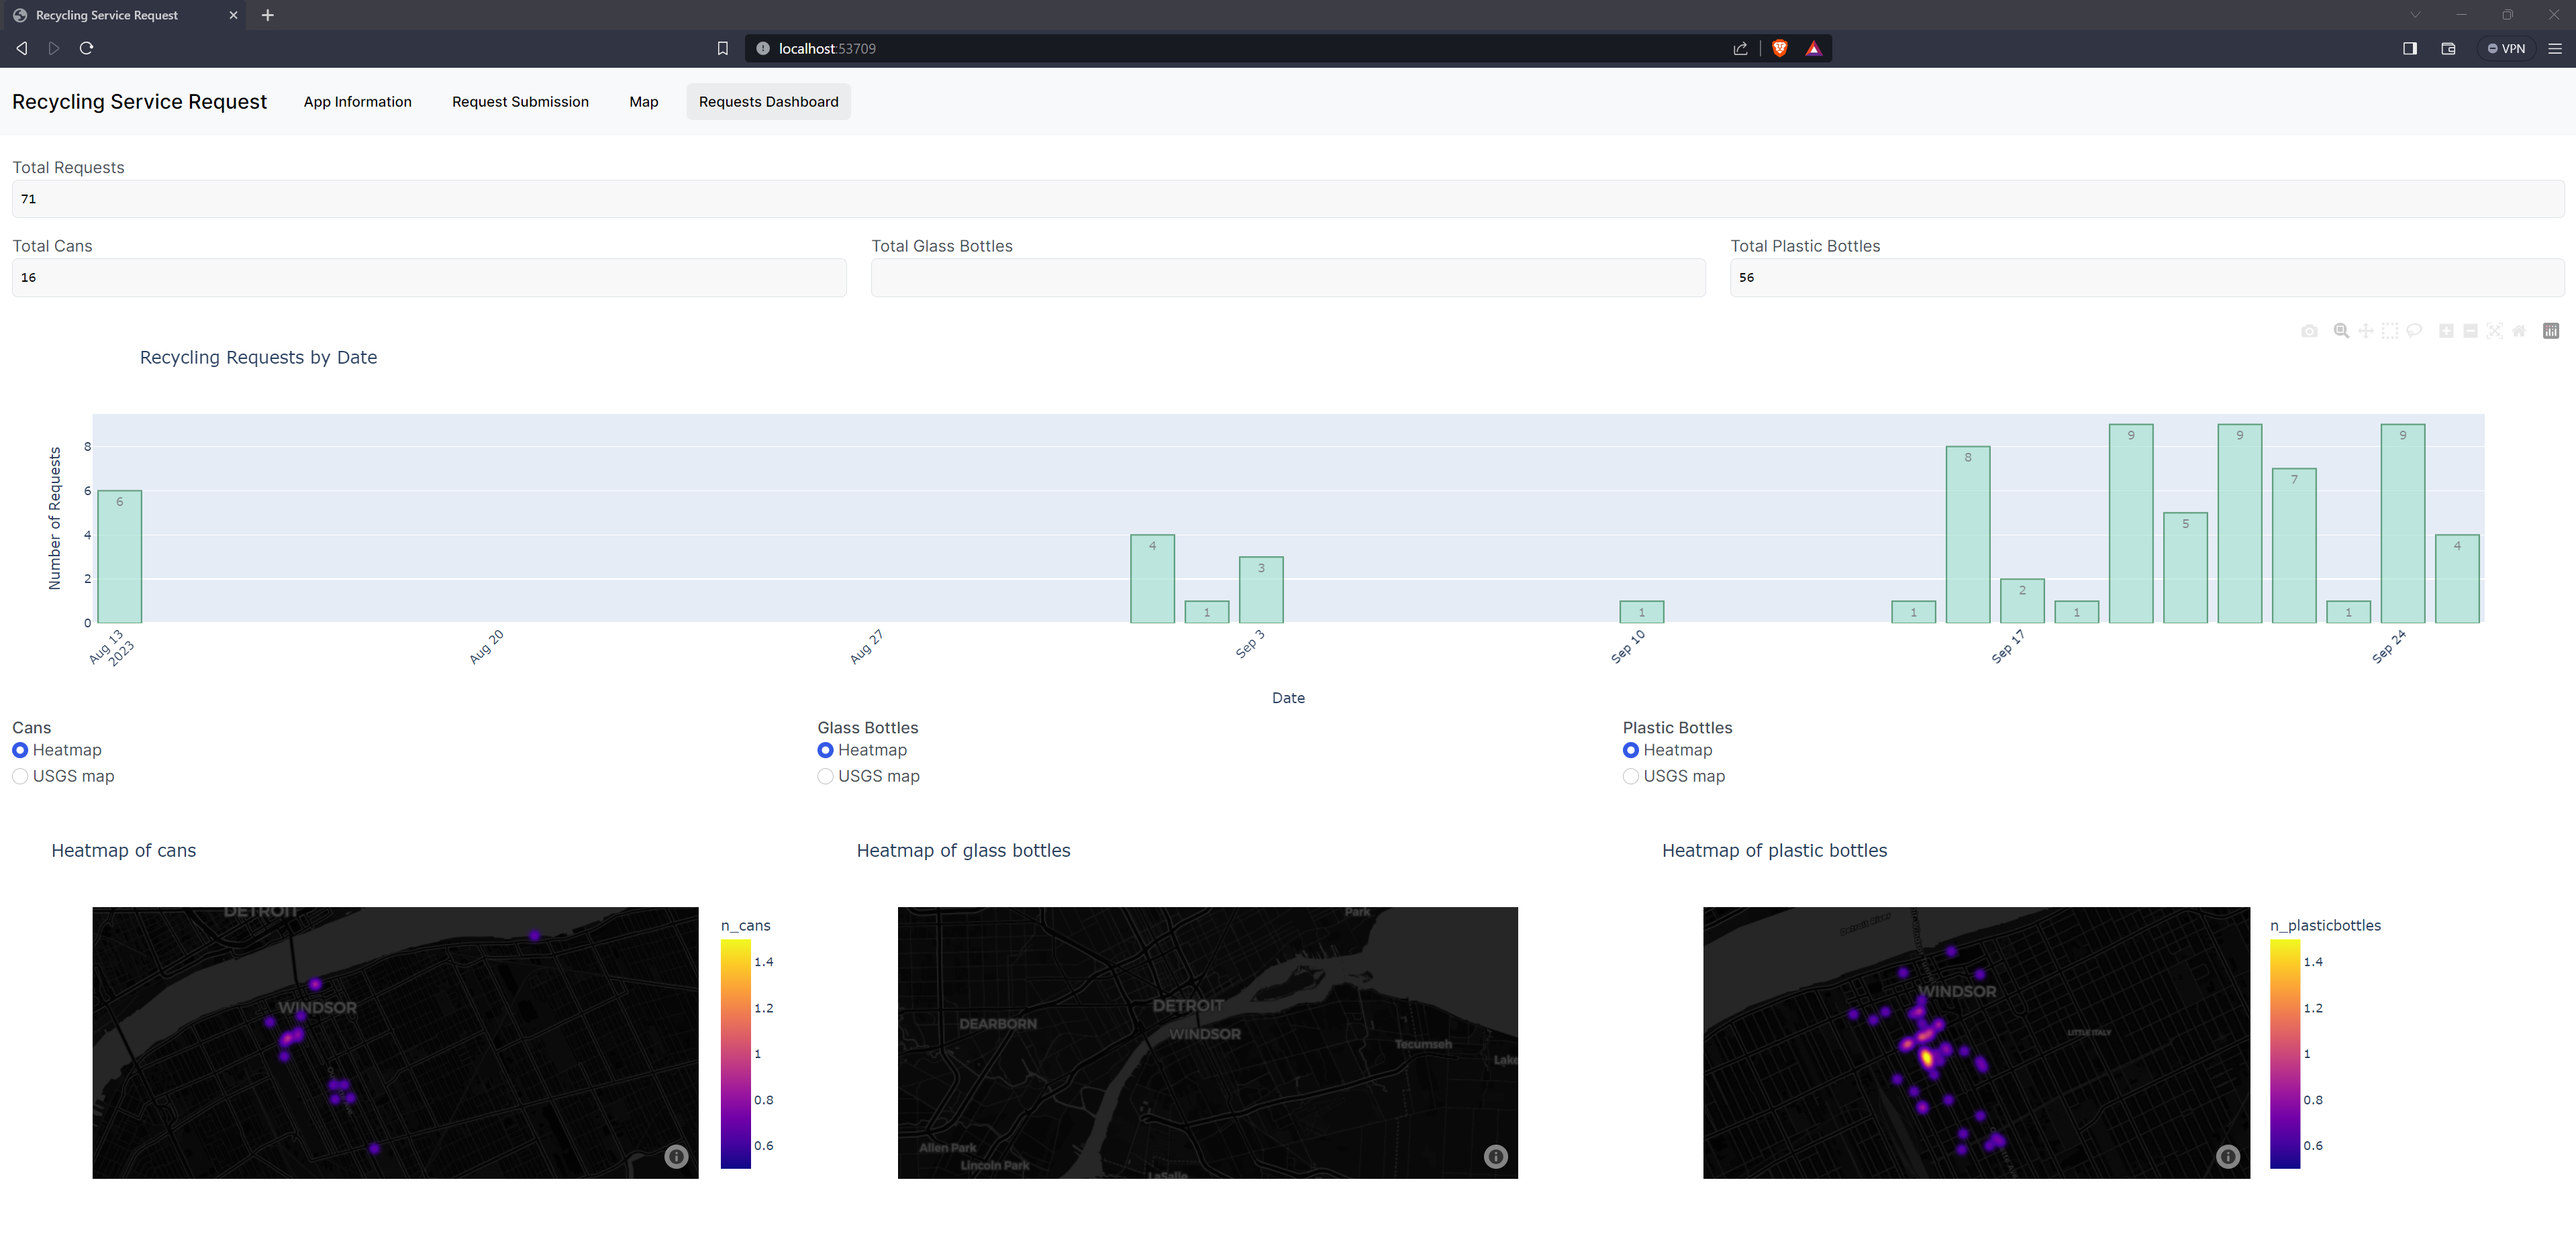
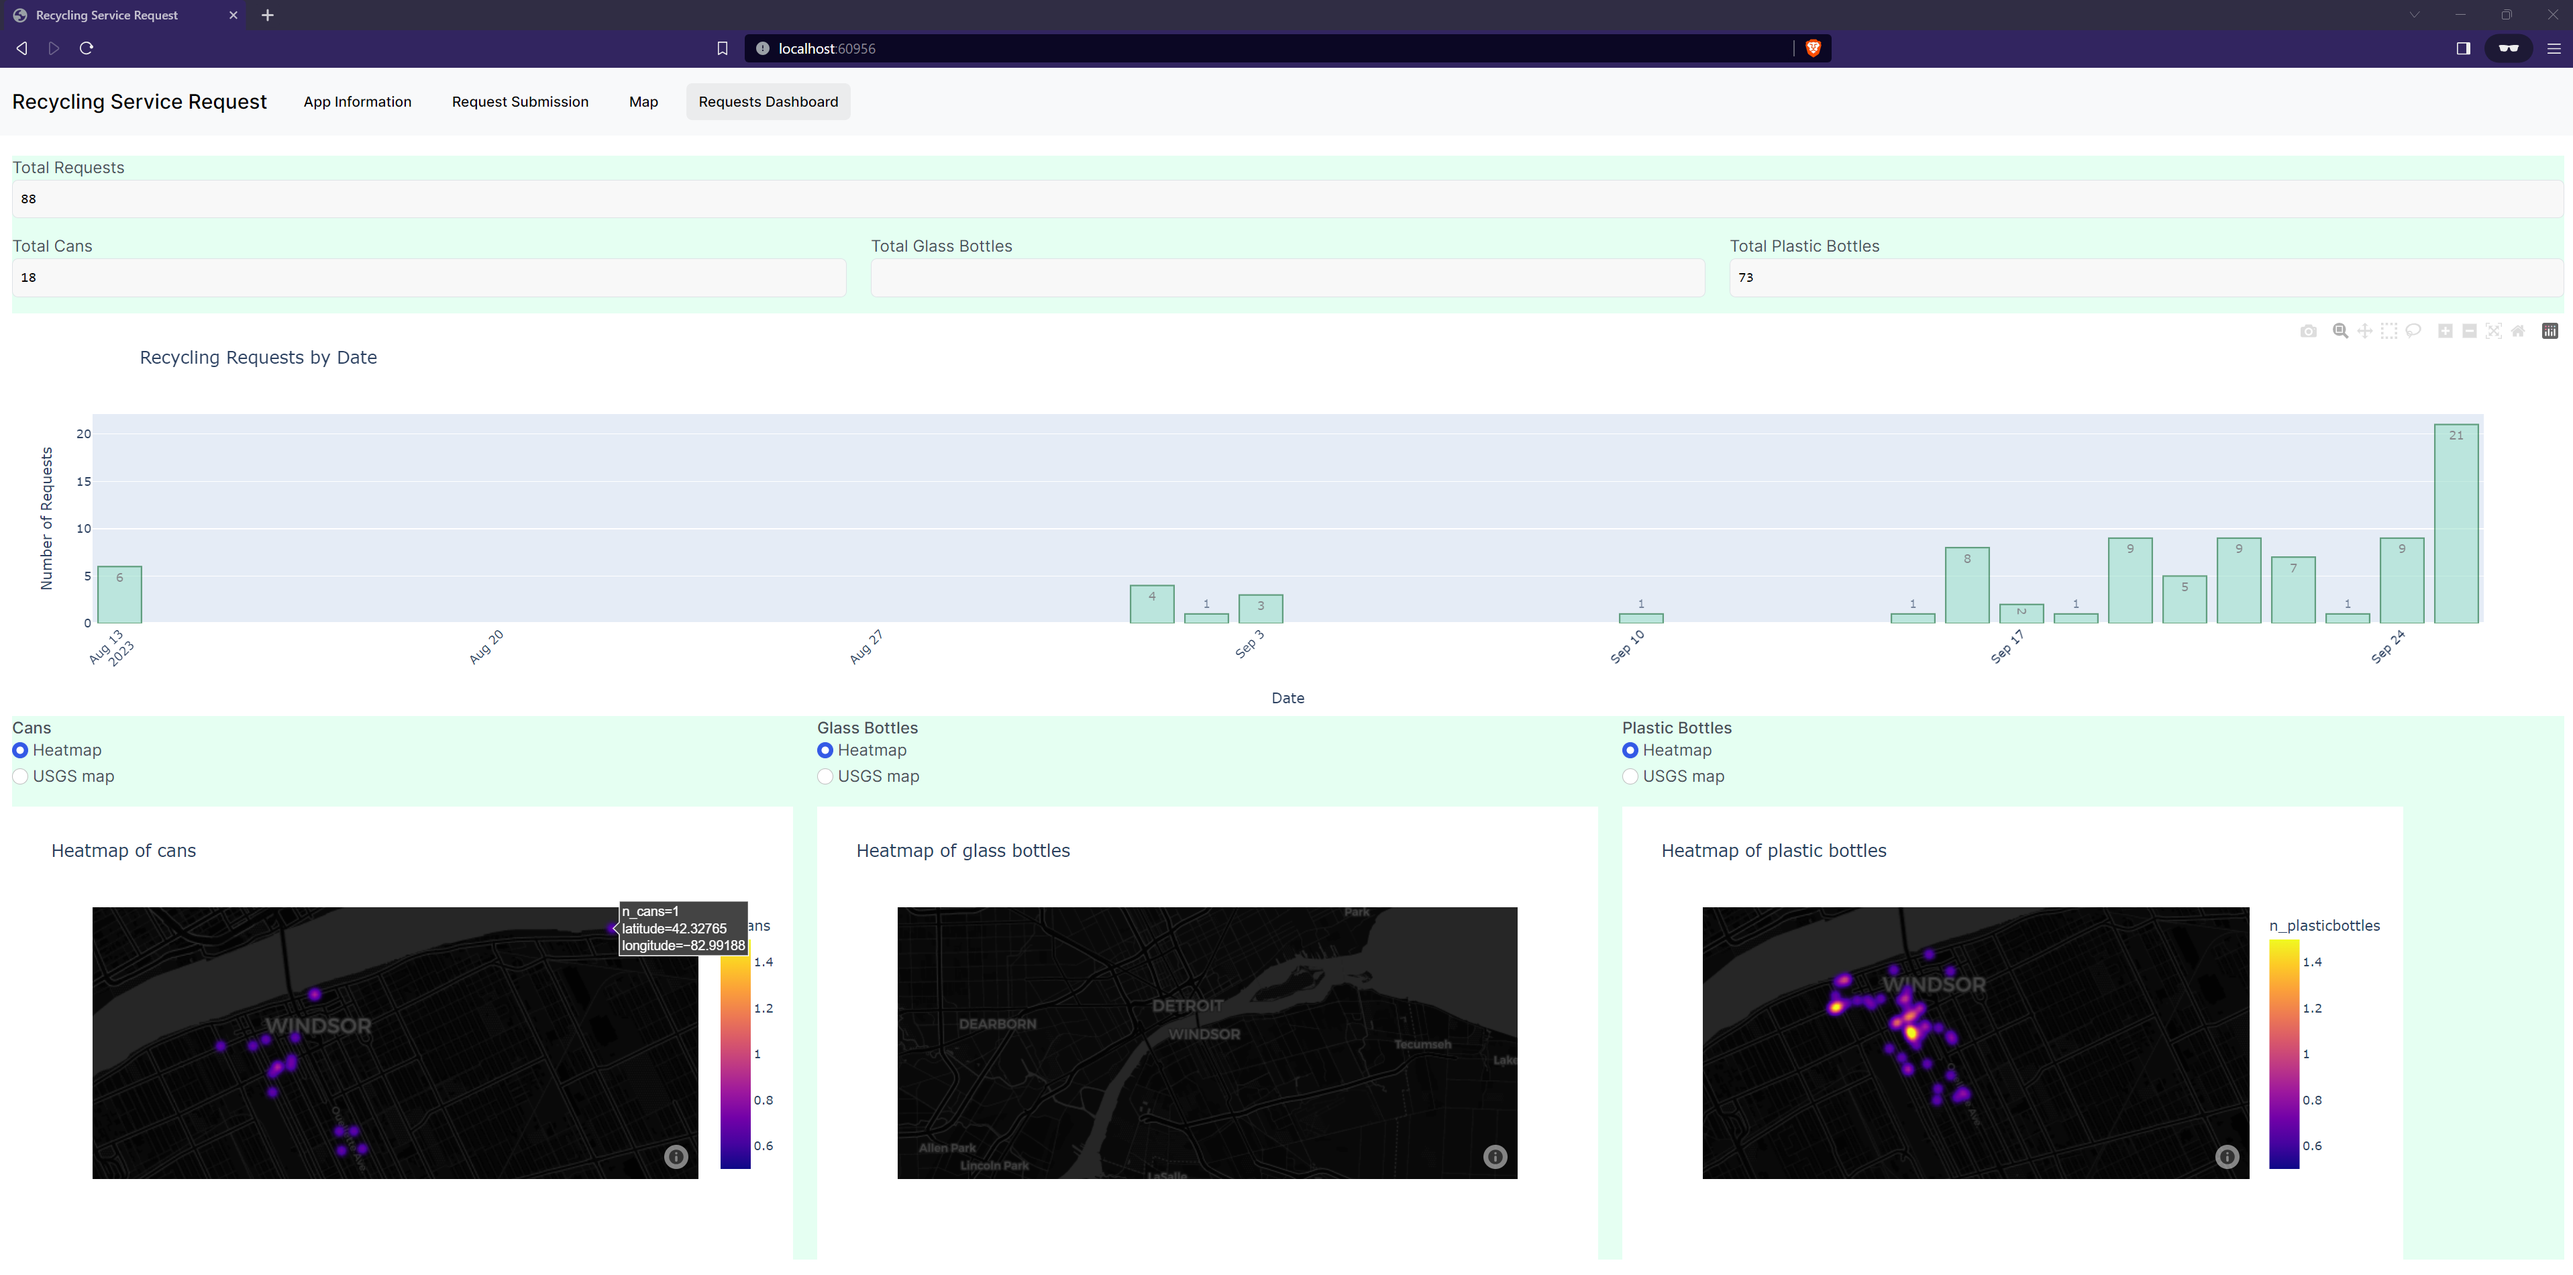
fix map cluster request bubbles and UI layout

diff --git a/Shinyapp/app.py b/Shinyapp/app.py
@@ -15,8 +15,8 @@ import cv2
 
 # importing the model from Robolow
 from roboflow import Roboflow
-rf = Roboflow(api_key="---------")
-project = rf.workspace().project("--------")
+rf = Roboflow(api_key="________")
+project = rf.workspace().project("__________")
 model = project.version(3).model
 
 
@@ -76,8 +76,8 @@ from ipyleaflet import Icon, MarkerCluster
 
 
 basemaps = {
-  "OpenStreetMap": L.basemaps.OpenStreetMap.Mapnik,
   "CartoDB": L.basemaps.CartoDB.Positron,
+  "OpenStreetMap": L.basemaps.OpenStreetMap.Mapnik,
   "Stamen.Toner": L.basemaps.Stamen.Toner,
   "Stamen.Terrain": L.basemaps.Stamen.Terrain,
   "Stamen.Watercolor": L.basemaps.Stamen.Watercolor,
@@ -110,14 +110,21 @@ app_ui = ui.page_navbar(
     shinyswatch.theme.zephyr(),
     
     # Land tab App information -----------------------------
-    ui.nav("App Information", 
-          "This research focuses on developing an image-based classification system for recycling objects, targeting four key items: cardboard, tin, glass, and plastic bottles. Leveraging Convolutional Neural Networks (CNNs), our aim is to enhance waste sorting accuracy and efficiency through automated object classification. Unlike conventional methods, our approach classifies one item at a time, ensuring greater precision while simplifying the process."
+    ui.nav("App Information",
+           {"style": "background-color: rgba(0, 255, 128, 0.1)"},
+           ui.h1("App description"),
+
+           ui.markdown("This research focuses on developing an image-based detection system for recycling objects, targeting for now three key items: cans, glass bottles, and plastic bottles. Leveraging detection models, our aim is to enhance waste sorting accuracy and efficiency through automated object detection."),
+           
+           ui.a({"href": "https://github.com/arol9204/Recicling-Collection-Service", "target": "_blank"}, "Github Repo"),
           ),
     
     # Request submission tab -------------------------------
     ui.nav("Request Submission", 
                    ui.layout_sidebar(
+                       
                        ui.panel_sidebar(
+                           {"style": "background-color: rgba(0, 255, 128, 0.1)"},
                                         ui.input_file(  "file",
                                                         "Please upload your picture here",
                                                         button_label="Open camera",
@@ -136,25 +143,31 @@ app_ui = ui.page_navbar(
 
                                        ),
                        ui.panel_main(
+                          {"style": "background-color: rgba(0, 255, 128, 0.1)"},
+                                        ui.h3("Model detections"),
                                         ui.output_plot("image_p"),
                                         
                                         ui.row(
+                          
                                                 ui.column(4, "# Cans "),
                                                 ui.column(4, "# Glass bottle"),
                                                 ui.column(4, "# Plastic bottle"),
                                               ),
                                         ui.row(
+                          
                                                 ui.column(4, ui.output_text_verbatim("can", placeholder=True)),
                                                 ui.column(4, ui.output_text_verbatim("glass_bottle", placeholder=True)),
                                                 ui.column(4, ui.output_text_verbatim("plastic_bottle", placeholder=True)),
                                               ),
 
                                         ui.row(
+                                            
                                                 ui.column(6, "Latitude"),
                                                 ui.column(6, "Longitude"),
                                               ),
                                         
                                         ui.row(
+                                            
                                                 ui.column(6, ui.output_text_verbatim("lat", placeholder=True)),
                                                 ui.column(6, ui.output_text_verbatim("lon", placeholder=True)),
                                               )
@@ -169,10 +182,10 @@ app_ui = ui.page_navbar(
     ui.nav("Map",
                 ui.page_fluid(
                     ui.row(
-                            # ui.input_select(
-                            #                 "basemap", "Choose a basemap",
-                            #                 choices=list(basemaps.keys())
-                            #                 ),
+                            ui.input_select(
+                                            "basemap", "Choose a basemap",
+                                            choices=list(basemaps.keys())
+                                            ),
                             #ui.input_radio_buttons("type_map", "Type of Map", choices),
                             output_widget("map", height="850px"),
                     ),
@@ -186,7 +199,7 @@ app_ui = ui.page_navbar(
     # Dashboard -------------------------------------------------
 
     ui.nav("Requests Dashboard",
-           
+           {"style": "background-color: rgba(0, 255, 128, 0.1)"},
            ui.column(4, "Total Requests"),
            ui.output_text_verbatim("total_requests", placeholder=True),
             
@@ -478,7 +491,8 @@ def server(input: Inputs, output: Outputs, session: Session):
 
     @reactive.Calc
     def mapping():
-        map = L.Map(basmap = L.basemaps.CartoDB.Positron, center=(0, 0), zoom = 2, scroll_wheel_zoom=True, )
+        basemap = basemaps[input.basemap()]
+        map = L.Map(basemap = basemap, center=(0, 0), zoom = 2, scroll_wheel_zoom=True)
         map.layout.height = "800px"
         # Beer stores markers
         beer_store_mark1 = L.Marker(location=[42.31263551985872, -83.03326561020128], icon=leaf_icon, draggable=False)
@@ -491,11 +505,16 @@ def server(input: Inputs, output: Outputs, session: Session):
 
             # Getting the latitude and longitude from the image
             request_marker = L.Marker(location=(row['latitude'], row['longitude']), icon=coin_icon, draggable=False)
+
+            # Applying cluster
             markers.append(request_marker)
             marker_cluster = MarkerCluster(
                                 markers = markers
                             )
-            map.add_layer(marker_cluster)
+        map.add_layer(marker_cluster)
+
+            # # Without cluster
+            # map.add_layer(request_marker)
 
         @reactive.Effect()
         @reactive.event(input.submit)
@@ -509,7 +528,7 @@ def server(input: Inputs, output: Outputs, session: Session):
                 map.add_layer(marker)
 
         return map
-        
+
     @output 
     @render_widget
     def map():
